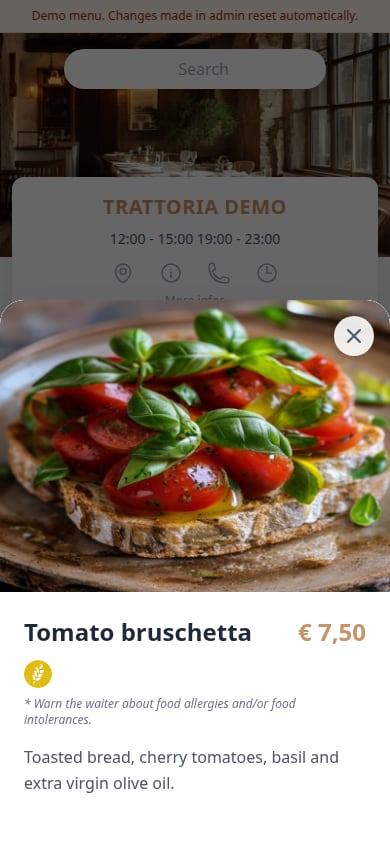
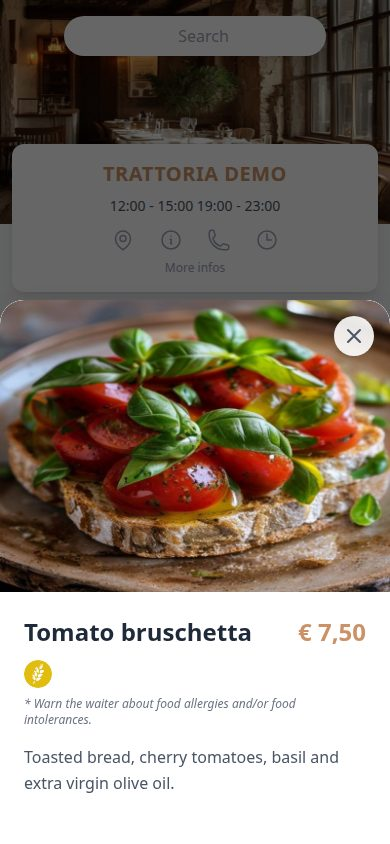
Refresh README screenshots and copy

Changed region(s): [[0.0, 0.0, 1.0, 0.3389], [0.0923, 0.7393, 0.1231, 0.7701]]

diff --git a/README.md b/README.md
@@ -2,15 +2,13 @@
 
 Self-hostable digital restaurant menu, built on Next.js and Cloudflare. Diners scan a QR code, browse a localized menu, and can ask an optional AI assistant for recommendations.
 
-**One menu, one deploy.** Each instance serves a single restaurant. There is no tenant slug in the URL, no admin restaurant picker, and no domain-mapping layer. To run a second restaurant, deploy the stack a second time.
-
-Restaurant owners manage the menu from `/admin`. Diners land on `/{locale}/menu` and browse in one of nine supported locales.
+Restaurant owners manage the menu from `/admin`. QR codes should point to `/`; the app detects the locale and redirects diners to the localized menu.
 
 ## Live demo
 
 Try the public demo: **https://risto-menu.andreabaccega.com**
 
-- Public menu: https://risto-menu.andreabaccega.com/en/menu/
+- Public menu: https://risto-menu.andreabaccega.com
 - Admin: https://risto-menu.andreabaccega.com/admin
 
 The demo is editable and public. Data resets automatically, so do not enter real customer data.
@@ -29,16 +27,15 @@ Tony, the menu assistant, is enabled with a daily usage cap for the demo.
 
 ## What it does
 
-- Public QR menu at `/{locale}/menu` with localized category and item content.
+- Public QR menu from `/`, with locale detection and localized category and item content.
 - Admin SPA at `/admin` for settings, categories, entries, variants, extras, images, opening hours, publishing, and translations.
 - Optional AI chat assistant that can recommend items from the current menu.
 - Privacy-safe catalog view tracking for basic analytics.
 - Cloudflare Access admin auth, so there is no in-app password system to run.
-- Single-tenant deployment model designed for one restaurant per stack.
 
 ## Status
 
-Source-available. Single-tenant. The older multi-tenant version lived through April 2026; `main` is now the simplified single-tenant app.
+Source-available.
 
 ## License
 
@@ -96,9 +93,9 @@ cd web/workers/chat && npm run dev
 cd web && npm run dev
 ```
 
-Open the frontend dev server's `/en/menu` path for the diner menu.
+Open the frontend dev server's root path for the diner menu.
 
-For admin work, production uses Cloudflare Access at `/admin`. In local dev, either point `NEXT_PUBLIC_API_URL` at a deployed backend or use the Playwright admin bypass described in [docs/self-hosting.md](docs/self-hosting.md#8-run-locally). The first migration seeds a `settings` row named "My Restaurant"; change it from `/admin?s=settings`.
+`/admin` should be protected by Cloudflare Access. In local dev, either point `NEXT_PUBLIC_API_URL` at a deployed backend or use the Playwright admin bypass described in [docs/self-hosting.md](docs/self-hosting.md#8-run-locally). The first migration seeds a `settings` row named "My Restaurant"; change it from `/admin?s=settings`.
 
 ## Common commands
 
